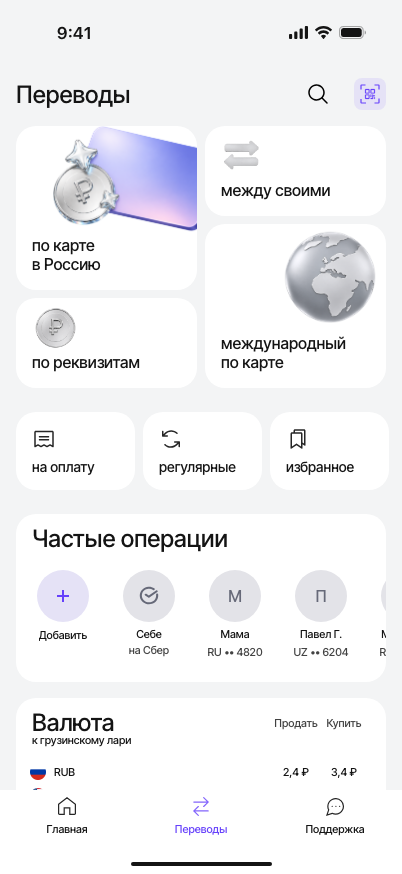
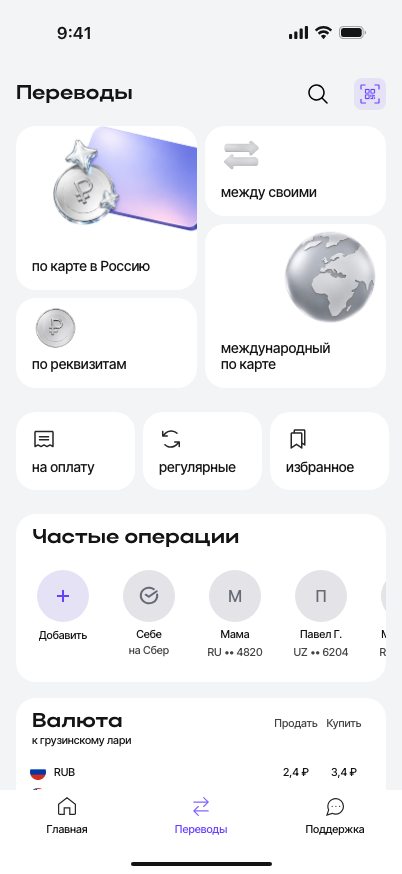
Apply revised heading typography to transfers menu

diff --git a/src/transfers-menu.js b/src/transfers-menu.js
@@ -4,7 +4,7 @@ export function createTransfersMenu({ recipientList, onChoose, onRecipient, onAc
   screen.innerHTML = `
     <header class="transfers-menu-header"><h1>Переводы</h1><div class="menu-header-actions"><button class="hit-target" aria-label="Поиск" data-extra="Поиск"><img src="./assets/images/search.svg" alt=""></button><button class="menu-qr hit-target" aria-label="Сканировать код" data-extra="Сканировать код"><img src="./assets/images/home-qr.svg" alt=""></button></div></header>
     <section class="transfer-options" aria-label="Способы перевода">
-      <button class="option-russia" data-option="russia"><span>по карте<br>в Россию</span><img src="./assets/images/menu-russia.png" alt=""></button>
+      <button class="option-russia" data-option="russia"><span>по карте в Россию</span><img src="./assets/images/menu-russia.png" alt=""></button>
       <button class="option-abroad" data-option="abroad"><span>международный<br>по карте</span><img src="./assets/images/menu-abroad.png" alt=""></button>
       <button class="option-own" data-option="own"><span>между своими</span><img src="./assets/images/menu-own.png" alt=""></button>
       <button class="option-details" data-option="details"><span>по реквизитам</span><img src="./assets/images/menu-details.png" alt=""></button>

diff --git a/src/styles.css b/src/styles.css
@@ -1499,3 +1499,10 @@ body:has(.guest-direction-sheet[open]) { overflow:hidden; }
 .home-screen[data-active-card=second] .analytics-tile span { line-height:20px; }
 .home-screen[data-active-card=second] .operation { padding-block:15px; }
 .home-screen[data-active-card=second] .quick-actions button { line-height:20px; gap:14px; }
+
+/* Revised type on Transfers — Figma 161:4907. */
+.transfers-menu-header h1 { font:700 20px/24px 'Actay Wide',sans-serif; }
+.transfers-menu .menu-favorites h2,
+.menu-currency .currency-heading h2 { font:700 20px/normal 'Actay Wide',sans-serif; height:29px; display:flex; align-items:center; }
+.transfers-menu .transfer-options button { font:500 14px/16px 'Inter Tight',sans-serif; }
+.transfers-menu .recipient .avatar:not(.add) { line-height:20px; }
